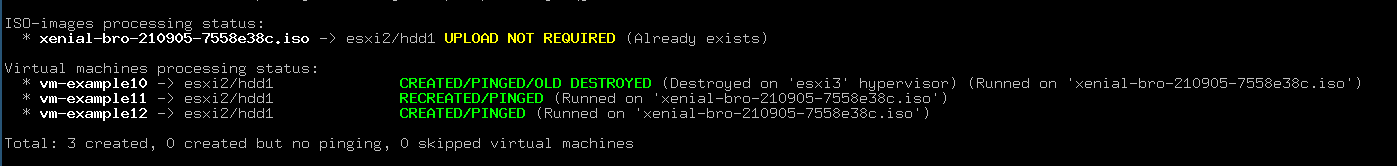
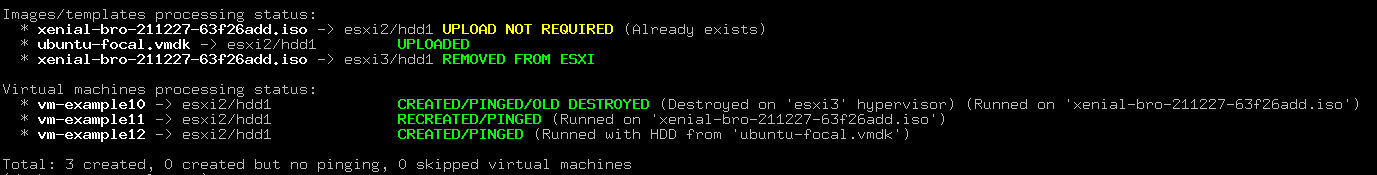
[docs/*]: Updated to last version (refs #129)

Changed region(s): [[0.0, 0.0602, 0.5621, 0.8133], [0.281, 0.4518, 0.9993, 0.8133], [0.0, 0.8133, 0.4684, 1.0]]

diff --git a/docs/CONTROL_VM_ESXI.md b/docs/CONTROL_VM_ESXI.md
@@ -18,7 +18,7 @@
 
 ### Общая информация
 
-Скрипт простого управления бездисковыми виртуальными машинами на `VmWare ESXi` гипервизоре: умеет создавать,
+Скрипт простого управления (без)дисковыми виртуальными машинами на `VmWare ESXi` гипервизоре: умеет создавать,
 уничтожать, перезагружать, обновлять параметры на лету и показывать разницу между конфигурацией и реальным положением
 дел на гипервизоре.
 
@@ -27,18 +27,18 @@
 ```
 подготовительные этапы (проверка зависимостей, парсинг конфигурационного файла и т.д.)
 -> (подготовка карты виртуальных машин/настроек автостарта/карты хранилищ на всех или выборочных гипервизорах)
-  -> (предварительное копирование необходимых ISO-образов на гипервизоры)
+  -> (предварительное копирование необходимых ISO-образов и HDD-шаблонов на гипервизоры)
     -> работа указанной команды для одной или нескольких виртуальных машин
-      -> (удаление неиспользуемых более ISO-образов на гипервизорах)
-        -> вывод статуса обработанных ISO-образов (при необходимости) и виртуальных машин
+      -> (удаление неиспользуемых более ISO-образов и HDD-шаблонов на гипервизорах)
+        -> вывод статуса обработанных ISO-образов c HDD-шаблонами (при необходимости) и виртуальных машин
 ```
 
-В скрипте реализована поддержка обработки нескольких виртуальных машин за один проход. А результат их обработки
-отображается в статусе в конце работы скрипта.
+В скрипте реализована поддержка последовательной обработки нескольких виртуальных машин за один проход.
+А результат их обработки отображается в статусе в конце работы скрипта.
 
 Взаимодействие с гипервизорами происходит по `SSH`-протоколу и посредством `API` (через программу `govc`).
 Взаимодействие посредством `API` потребовалось команде `update` для горячей замены `ISO`-образов и обновления других
-параметров виртуальных машин. В будущем планируется использовать только один вид транспорта.
+параметров виртуальных машин. В будущем планируется использовать только один вид взаимодействия.
 
 ### Использование
 
@@ -56,7 +56,7 @@
 * **reboot** - Перезагрузка или рестарт виртуальных машин;
 * **show** - Вывод разницы конфигурации виртуальных машин между гипервизором и конфигурационным файлом;
 * **update** - Обновление настроек виртуальных машин на лету;
-* **upload** - Предварительная загрузка `ISO`-образов на гипервизоры;
+* **upload** - Предварительная загрузка `ISO`-образов и `HDD`-шаблонов на гипервизоры;
 
 Для уточнения параметров любой команды, а также её опций достаточно её просто запустить.
 
@@ -99,12 +99,12 @@ $ ./control_vm_esxi.sh create [options] <vm_name> [<esxi_name>] [<vm_name>] ...
 * **-d** - Уничтожит одноименную виртуальную машину, найденную на другом гипервизоре (аналог миграции);
 * **-da** - Автоматически не включать менеджер автостарта виртуальных машин на гипервизорах;
 * **-f** - Пересоздаст (уничтожит и создаст заново) виртуальную машину, если она уже имеется на гипервизоре;
-* **-ff** - Перепроверить контрольные суммы для `ISO`-образов, которые уже имеются на гипервизоре;
+* **-ff** - Перепроверить контрольные суммы для `ISO`-образов и `HDD`-шаблонов, которые уже имеются на гипервизоре;
 * **-fs** - Принудительно выключит виртуальную машину (при использовании опций `-d` и/или `-f`), если пакет `vmware-tools` не запущен;
 * **-i** - Игнорирование гипервизоров, к которым не удалось подключиться при построении карты виртуальных машин;
 * **-n** - Не строить полную карту виртуальных машин на всех гипервизорах, ограничиться только нужными;
 * **-sn** - Игнорировать проверку сетевых настроек виртуальной машины (например, для случаев когда шлюз находится за пределами сети);
-* **-sr** - Пропустить автоматическое удаление неиспользуемых `ISO`-образов с гипервизоров (при использовании опций `-d` и/или `-f`);
+* **-sr** - Пропустить автоматическое удаление неиспользуемых `ISO`-образов и `HDD`-шаблонов с гипервизоров (при использовании опций `-d` и/или `-f`);
 * **-t** - Верить `.sha1` файлам (по умолчанию скрипт перепроверяет их для надёжности);
 
 Поскольку в скрипте реализовано построение карты виртуальных машин на всех гипервизорах, скрипт имеет возможность
@@ -125,8 +125,9 @@ $ ./control_vm_esxi.sh create [options] <vm_name> [<esxi_name>] [<vm_name>] ...
 Опция **-f** позволяет пересоздать заново виртуальную машину, например, в случаях когда требуется обновить такие параметры,
 которые не поддерживает команда **update**.
 
-Опция **-ff** позволяет принудительно перепроверить контрольные суммы, а значит и бинарное равенство локальных `ISO`-образов
-с `ISO`-образами на гипервизорах, которые скрипт собирался загружать, но обнаружил их присутствие там.
+Опция **-ff** позволяет принудительно перепроверить контрольные суммы, а значит и бинарное равенство локальных
+`ISO`-образов и `HDD`-шаблонов с `ISO`-образами и `HDD`-шаблонами на гипервизорах, которые скрипт собирался загружать,
+но обнаружил их присутствие там.
 
 С опцией **-fs** скрипт принудительно выключит виртуальную машину, даже если пакет `vmware-tools` не запущен.
 По умолчанию скрипт вытается посылать команду `shutdown` для корректного выключения виртуальной машины, однако
@@ -146,11 +147,11 @@ $ ./control_vm_esxi.sh create [options] <vm_name> [<esxi_name>] [<vm_name>] ...
 виртуальных машин. Бывают ситуации когда шлюз по умолчанию находится за пределами сети (опция `link` в `ip route`)
 и в этом случае проверка не пройдет. Для игнорирования таких ситуаций можно использовать опцию **-sn**;
 
-Опция **-sr** позволит пропустить автоматическое удаление неиспользуемых более `ISO`-образов с гипервизоров.
-Это операция запускается в самом конце и удаляет образы, которые не используются более ни одной виртуальной машиной,
-чтобы сохранить место под будущие образы.
+Опция **-sr** позволит пропустить автоматическое удаление неиспользуемых более `ISO`-образов и `HDD`-шаблонов с
+гипервизоров. Это операция запускается в самом конце и удаляет образы, которые не используются более ни одной
+виртуальной машиной, чтобы сохранить место под будущие образы.
 
-И, наконец, опция **-t** позволяет немного убыстрить работу скрипта доверяя `.sha1` файлам `ISO`-образов,
+И, наконец, опция **-t** позволяет немного убыстрить работу скрипта доверяя `.sha1` файлам,
 т.к. по умолчанию скрипт, даже при наличии этих файлов, перепроверяет контрольные суммы, для надежности.
 
 В конце своей работы команда отображает статус всех созданных виртуальных машин. Рассмотрим на примере, была
@@ -162,10 +163,12 @@ $ ./control_vm_esxi.sh -d -f vm-example10 vm-example11 vm-example12
 
 ![](screenshots/control_vm_esxi-create-status.png)
 
-Как видим из скриншота, загрузка `ISO`-образа не понадобилась, т.к. образ уже существовал на гипервизоре,
-виртуальная машина `vm-example10` были мигрирована с `esxi3`-гипервизора (указан опция `-d`), машина `vm-example11`
-была пересоздана, т.к. уже существовала на гипервизоре (опция `-f`), а `vm-example12` была просто создана.
-Также ключевое слово `PINGED`, говорит о том, что каждая из трёх созданных машин была доступна с места, где был запущен скрипт.
+Как видим из скриншота, загрузка `ISO`-образа на `esxi2`-гипервизор не понадобилась, т.к. образ уже там существовал,
+`HDD`-шаблон был загружен, т.к. осутствовал на гипервизоре, `ISO`-образ был удален на `esxi3`-гипервизор, т.к. более
+там не нужен, виртуальная машина `vm-example10` были мигрирована с `esxi3`-гипервизора (указан опция `-d`),
+машина `vm-example11` была пересоздана, т.к. уже существовала на гипервизоре(опция `-f`), а `vm-example12` была
+просто создана. Также ключевое слово `PINGED`, говорит о том, что каждая из трёх созданных машин была доступна с места,
+где был запущен скрипт.
 
 ##### Команда `destroy`
 
@@ -181,7 +184,7 @@ $ ./control_vm_esxi.sh destroy [options] <vm_name> [vm_name] [<esxi_name>/<vm_na
 
 Опции:
 * **-fs** - Принудительно выключит виртуальную машину, если пакет `vmware-tools` не запущен;
-* **-sr** - Пропустить автоматическое удаление неиспользуемых `ISO`-образов с гипервизоров;
+* **-sr** - Пропустить автоматическое удаление неиспользуемых `ISO`-образов и `HDD`-шаблонов с гипервизоров;
 
 Все поддерживаемые опции были рассмотрены в секции по [команде **create**](#команда-create).
 
@@ -238,8 +241,7 @@ $ ./control_vm_esxi.sh show vm-example10
 Поскольку в качестве параметра мы указали виртуальную машину под именем `vm-example10` и она встречается,
 как в конфигурационном файле, так и на гипервизоре, то скрипт её выделяет цветом и показывает все её настройки,
 как в конфигурационном файле, так и на гипервизоре. Причем отличающиеся значения помечаются желтым цветом.
-Настройки, которые не были найдены на гипервизоре отображаются красным цветом. Как правило, это сигнал к тому, что
-виртуальная машина была создана другим скриптом.
+Настройки, которые не были найдены на гипервизоре отображаются красным цветом.
 
 Ниже в колонках отображаются виртуальные машины, которые встречаются только в конфигурационном файле или только
 на гипервизоре. Однако, как видим, виртуальная машина с именем `vm-example11` встречается и там и там, но скрипт
@@ -263,18 +265,18 @@ $ ./control_vm_esxi.sh update <parameter_name> [options] <vm_name> [<esxi_name>]
 имя гипервизора, то настройки будут обновлены для всех виртуальных машин на этом гипервизоре.
 
 Опции:
-* **-ff** - Перепроверить контрольные суммы для `ISO`-образов, которые уже имеются на гипервизоре;
+* **-ff** - Перепроверить контрольные суммы для `ISO`-образов и `HDD`-шаблонов, которые уже имеются на гипервизоре;
 * **-i** - Игнорирование гипервизоров, с которыми не удалось подключиться при построении карты виртуальных машин;
 * **-n** - Не строить полную карту виртуальных машин на всех гипервизорах, ограничиться только нужными;
 * **-sn** - Игнорировать проверку сетевых настроек виртуальной машины (для случаев когда шлюз находится за пределами сети);
-* **-sr** - Пропустить автоматическое удаление неиспользуемых `ISO`-образов с гипервизоров;
+* **-sr** - Пропустить автоматическое удаление неиспользуемых `ISO`-образов и `HDD`-шаблонов с гипервизоров;
 * **-t** - Верить `.sha1` файлам (по умолчанию скрипт перепроверяет их)
 
 Все поддерживаемые опции были рассмотрены в секции по [команде **create**](#команда-create).
 
 На данный момент команда умеет обновлять значения следующих параметров - `local_iso_path`, `vm_dns_servers`,
-`vm_timezone`. Все параметры обновляются на "горячую", т.е. меняют свои значения сразу же, однако, учитывая характер
-бездисковых станций, обновлённые значения параметров подхватятся только после перезагрузки виртуальных машин.
+`vm_timezone`. Все параметры обновляются на "горячую", т.е. меняют свои значения сразу же, но только в конфигурации
+гипервизора. Поэтому, чтобы обновленные значения подхватились самими виртуальными машинами необходима их перезагрузка.
 
 **!!! Важно**, чтобы базовый слой, на основе которого работает виртуальная машина имел поддержку извлечения
 `ISO`-образа из виртуального CD-ROM через `vmware-tools`. Сейчас скрипт посылает команду `eject` через гипервизор
@@ -298,27 +300,28 @@ $ ./control_vm_esxi.sh update <parameter_name> [options] <vm_name> [<esxi_name>]
 
 ##### Команда `upload`
 
-Команда для предварительной загрузки `ISO`-образов на гипервизоры. Формат запуска:
+Команда для предварительной загрузки `ISO`-образов и `HDD`-шаблонов на гипервизоры. Формат запуска:
 ```bash
 $ ./control_vm_esxi.sh upload [options] <vm_name> [<esxi_name>] [<vm_name>] ...
 $ ./control_vm_esxi.sh upload [options] all
 ```
 
 В качестве параметров команда принимает имена виртуальных машин и гипервизоров. При указании в качестве параметра
-имени виртуальной машины, скрипт загрузит необходимый `ISO`-образ только для неё, в случае указания имени гипервизора -
-скрипт загрузит необходимые `ISO`-образы для всех виртуальных машин, описанных для него в конфигурационном файле.
-А при указании ключевого слова `all` - загрузит необходимые `ISO`-образы для всех виртуальных машин на всех гипервизорах.
+имени виртуальной машины, скрипт загрузит необходимый `ISO`-образ и/или `HDD`-шаблон только для неё, в случае
+указания имени гипервизора - скрипт загрузит необходимые `ISO`-образы и/или `HDD`-шаблоны для всех виртуальных машин,
+описанных для него в конфигурационном файле. А при указании ключевого слова `all` - загрузит необходимые `ISO`-образы
+и `HDD`-шаблоны для всех виртуальных машин на всех гипервизорах.
 
 Опции:
-* **-ff** - Перепроверить контрольные суммы для `ISO`-образов, которые уже имеются на гипервизоре;
+* **-ff** - Перепроверить контрольные суммы для `ISO`-образов и `HDD`-шаблонов, которые уже имеются на гипервизоре;
 * **-t** - Верить `.sha1` файлам (по умолчанию скрипт перепроверяет их)
 
 Все поддерживаемые опции были рассмотрены в секции по [команде **create**](#команда-create).
 
 В процессе работы многих команд (`create`, `update`) скрипт также предварительно загружает необходимые `ISO`-образы
-на гипервизоры. Команда **upload** позволяет запустить этот процесс в нужное время, тем самым хоть команда и
-повторяет функциональность, но создана для удобства (особенно с параметром `all`), чтобы заранее, а не в момент
-создания виртуальных машин загрузить для них все необходимые образы.
+и `HDD`-шаблоны на гипервизоры. Команда **upload** позволяет запустить этот процесс в нужное время, тем самым хоть
+команда и повторяет функциональность, но создана для удобства (особенно с параметром `all`), чтобы заранее, а не
+в момент создания виртуальных машин загрузить для них все необходимые образы.
 
 Ниже представлен пример работы с параметром `all`:
 
@@ -341,10 +344,13 @@ $ ./control_vm_esxi.sh upload all
 #esxi_ssh_port=22
 #esxi_ssh_username="root"
 #local_hook_path=""
-#local_iso_path=""                 # REQUIRED
+#local_iso_path=""
+#local_vmdk_path=""
 #vm_autostart="no"
 #vm_dns_servers="8.8.8.8 8.8.4.4"  # Separated by spaces
 #vm_esxi_datastore="datastore1"
+#vm_hdd_devtype="pvscsi"
+#vm_hdd_gb="5"
 #vm_guest_type="debian8-64"
 #vm_ipv4_address=""                # REQUIRED
 #vm_ipv4_netmask="255.255.255.0"
@@ -358,7 +364,7 @@ $ ./control_vm_esxi.sh upload all
 #vm_timezone="Etc/UTC"
 #vm_vcpus=1
 
-local_iso_path=xenial-bro-210905-7558e38c.iso
+local_iso_path=xenial-bro-211227-63f26add.iso
 vm_esxi_datastore=hdd1
 vm_ipv4_gateway=127.0.0.1
 vm_network_name="wan"
@@ -383,7 +389,10 @@ vm1-example11 at="esxi3" vm_ipv4_address="127.0.0.12"
 vm-example12 at="esxi2" \
   vm_autostart="yes" \
   vm_ipv4_address="127.0.0.13" \
-  vm_memory_mb=1024
+  vm_memory_mb=1024 \
+  local_iso_path="" \
+  local_vmdk_path="ubuntu-focal.vmdk" \
+  vm_hdd_gb="10"
 ```
 
 Как и любой классический `INI`-файл конфигурация состоит из секций (заключенных в квадратные скобки) и параметров к ним.
@@ -418,11 +427,14 @@ vm-example12 at="esxi2" \
 | **esxi_ssh_port** | SSH-порт для доступа к гипервизору | 22 |
 | **esxi_ssh_username** | SSH-пользователь для доступа к гипервизору | root |
 | **local_hook_path** | Локальный путь до хука или директории с хуками | |
-| **local_iso_path** | Локальный путь до `ISO`-образа виртуальной машины | ОБЯЗАТЕЛЬНЫЙ |
+| **local_iso_path** | Локальный путь до `ISO`-образа виртуальной машины | |
+| **local_vmdk_path** | Локальный путь до `HDD`-шаблона виртуальной машины | |
 | **vm_autostart** | Пометить виртуальную машину на автозагрузку вместе с гипервизором | нет |
 | **vm_dns_servers** | Адреса DNS-серверов | 8.8.8.8 8.8.4.4 |
 | **vm_esxi_datastore** | Имя хранилища где будет расположена виртуальная машина и `ISO`-образ к ней | datastore1 |
 | **vm_guest_type** | Тип виртуальной машины | debian8-64 |
+| **vm_hdd_devtype** | Тип адаптера `HDD`-накопителя | pvscsi |
+| **vm_hdd_gb** | Необходимый размер `HDD`-накопителя | 5 |
 | **vm_ipv4_address** | IPv4-адрес для виртуальной машины | ОБЯЗАТЕЛЬНЫЙ |
 | **vm_ipv4_netmask** | IPv4-маска для виртуальной машины | 255.255.255.0 |
 | **vm_ipv4_gateway** | IPv4-шлюз для виртуальной машины | ОБЯЗАТЕЛЬНЫЙ |
@@ -464,8 +476,8 @@ $ CACHE_DIR="-" ./control_vm_esxi.sh create vm-example10
 
 ### Типы исключений
 
-Скрипт работает с 3-мя типами сущностей - гипервизорами, `ISO`-образами и виртуальными машинами. Поэтому для более
-удобной отладки было внедрено типизирование исключений по сущностям.
+Скрипт работает с 3-мя типами сущностей - гипервизорами, образами/шаблонами и виртуальными машинами.
+Поэтому для более удобной отладки было внедрено типизирование исключений по сущностям.
 
 Рассмотрим пример, скрипт был запущен следующей командой:
 
@@ -478,14 +490,14 @@ $ ./control_vm_esxi.sh create vm-example10
 Видим, что в процессе построения карты виртуальных машин случилась ошибка, а именно ошибка парсинга: скрипт не смог
 распознать ответ гипервизора (в данном примере закешированный ответ) и выдал исключение `SKIPPING ESXI`, т.к.
 это исключение относится ко всему гипервизору и дальнейшее взаимодействие с ним невозможно, о чём мы и видим в
-статусе обработанных `ISO`-образов и виртуальных машин. Там также указан тип `SKIPPED ESXI`, т.е. пропуск произошёл
-из-за проблем на гипервизоре, а не вследствии ошибок при работе с самими `ISO`-образами или виртуальными машинами.
+статусе обработанных образов/шаблонов и виртуальных машин. Там также указан тип `SKIPPED ESXI`, т.е. пропуск произошёл
+из-за проблем на гипервизоре, а не вследствии ошибок при работе с самими образами/шаблонами или виртуальными машинами.
 
 ![](screenshots/control_vm_esxi-parse-error3.png)
 
-Во втором примере мы видим ошибку с `ISO`-образом, а именно несоответствие подсчитанной контрольной суммы и в `.sha1` файле,
-из-за чего получили исключение типа `SKIPPED ISO`, а далее виртуальная машина не могла быть создана, т.к. `ISO`-образ
-не удалось залить/проверить, из-за чего возникло исключение типа `SKIPPED VM`.
+Во втором примере мы видим ошибку с `ISO`-образом, а именно несоответствие подсчитанной контрольной суммы и в `.sha1`
+файле, из-за чего получили исключение типа `SKIPPED IMAGE`, а далее виртуальная машина не могла быть создана,
+т.к. `ISO`-образ не удалось залить/проверить, из-за чего возникло исключение типа `SKIPPED VM`.
 
 ### Хуки
 

diff --git a/README.md b/README.md
@@ -1,6 +1,6 @@
-# Скрипты для работы с diskless-нодами на ESXi
+# Скрипты для работы с disk(less)-нодами на ESXi
 
-Коллекция `BASH`-скриптов для работы с `diskless`-нодами под управлением `VmWare ESXi` гипервизоров.
+Коллекция `BASH`-скриптов для работы с `disk(less)`-нодами под управлением `VmWare ESXi` гипервизоров.
 
 ![](docs/screenshots/control_vm_esxi-main.png)
 
@@ -17,11 +17,16 @@
 * Описание конфигурации через `INI`-файлы;
 * Корректная обработка ошибок и исключительных ситуаций на каждом этапе;
 * Цветное оформления для лучшей читабельности вывода скриптов;
-* Загрузка виртуальных машин через собранные `ISO`-образы (шаблоны) при полном размещении ОС в оперативной памяти;
-* Сборка `ISO`-образов (шаблонов) на основе базового слоя выбранной операционной системы;
+* Поддержка работы с 4мя типами виртуальных машин: бездисковые (на базе подготовленного `ISO`-образа с полным
+  размещением ОС в оперативной памяти), бездисковые с диском для хранения данных, дисковые (на базе подготовленного
+  `HDD`-шаблона), сетевые (с загрузкой только по сети);
+* Поддержка сборки `ISO`-образов на основе базового слоя выбранной операционной системы и его модификации
+  под конкретное применение через обычные скрипты в `GIT`-репозитарии;
 * Преподготовленный базовый слой `ubuntu-xenial-amd64-minbase`;
-* Модификация базового слоя под конкретное применение через обычные скрипты в `GIT`-репозитарии;
-* Предварительная (или по команде) загрузка `ISO`-образов (шаблонов) на гипервизоры с выводом отдельного статуса по ним;
+* Предварительная (или по команде) загрузка `ISO`-образов и `HDD`-шаблонов на гипервизоры
+  с выводом отдельного статуса по ним;
+* Проверка контрольных сумм артефактов базовых слоёв при создании `ISO`-образов,
+  а также контрольных сумм `ISO`-образов и `HDD`-шаблонов при создании виртуальных машин;
 * Поддержка обработки нескольких виртуальных машин за один запуск с выводом статуса по каждой из них;
 * Создание виртуальных машин с возможностью удаления одноименной на другом гипервизоре (аналог миграции)
   и/или пересоздания уже существующих виртуальных машин;
@@ -31,17 +36,15 @@
 * Отображение различий настроек в конфигурационном файле и на гипервизорах;
 * Поддержка переключения `ISO`-образа виртуальной машины на лету (для будущей перезагрузки);
 * Поддержка отложенного обновления некоторых параметров виртуальных машин (временная зона, адреса DNS-серверов);
-* Проверка контрольных сумм артефактов базовых слоёв при создании образов, а также контрольных сумм ISO-образов
-  при создании виртуальных машин;
 
 ### Содержимое
 
 ```
 ├ base_layers/ubuntu-xenial-amd64-minbase - базовый слой с Ubuntu Xenial для amd64-платформы в minbase варианте
 ├ hooks/                                  - папка для расположения вспомогательных скриптов (хуков)
-├ isolinux/                               - файлы из isolinux-проекта для возможности сборки загрузочных ISO-образов (шаблонов)
+├ isolinux/                               - файлы из isolinux-проекта для возможности сборки загрузочных ISO-образов
 ├ Dockerfile                              - файл для docker для запуска скриптов в контейнере
-├ build_iso_images.sh                     - скрипт для сборки загрузочных ISO-образов (шаблонов) с нуля
+├ build_iso_images.sh                     - скрипт для сборки загрузочных ISO-образов с нуля
 ├ build_iso_images.ini.example            - пример конфигурационного файла
 ├ control_vm_esxi.sh                      - скрипт для управления diskless-виртуальным машинами на Vmware ESXi гипервизорах
 ├ control_vm_esxi.ini.example             - пример конфигурационного файла

diff --git a/docs/EXAMPLES.md b/docs/EXAMPLES.md
@@ -69,7 +69,7 @@ $ sudo ./build_iso_images.sh build -f xenial-bro
 ```ini
 [defaults]
 # Задаём значения по умолчанию для некоторых параметров, значения остальных определены в самом скрипте
-local_iso_path=xenial-bro-210905-7558e38c.iso
+local_iso_path=xenial-bro-211227-63f26add.iso
 vm_esxi_datastore=hdd1
 vm_ipv4_gateway=127.0.0.1
 vm_network_name="wan"
@@ -99,14 +99,16 @@ vm1-example11 at="esxi3" vm_ipv4_address="127.0.0.12"
 vm-example12 at="esxi2" \
   vm_autostart="yes" \
   vm_ipv4_address="127.0.0.13" \
-  vm_memory_mb=1024
+  vm_memory_mb=1024 \
+  local_iso_path="" \
+  local_vmdk_path="ubuntu-focal.vmdk" \
+  vm_hdd_gb="10"
 ```
 
 ##### Примеры использования
 
 Создание всех виртуальных машин на `esxi1` и `esxi2` гипервизорах с информированием о необходимости
-включения
-менеджера автостарта виртуальных машин где это необходимо (опция `-da`):
+включения менеджера автостарта виртуальных машин где это необходимо (опция `-da`):
 ```bash
 $ ./control_vm_esxi.sh create -da esxi1 esxi2
 ```
@@ -129,7 +131,7 @@ $ ./control_vm_esxi.sh destroy -fs vm-example10
 ```
 
 Уничтожение виртуальной машины `test1` на `esxi2` гипервизоре, не описанной в конфигурационном файле и пропуском
-удаления неиспользуемых `ISO`-образов на гипервизоре (опция `-sr`):
+удаления неиспользуемых `ISO`-образов и `HDD`-шаблонов на гипервизоре (опция `-sr`):
 ```bash
 $ ./control_vm_esxi.sh destroy -sr esxi2/test1
 ```
@@ -174,13 +176,13 @@ $ CACHE_VALID="-" ./control_vm_esxi.sh show -n vm-example10
 ./control_vm_esxi.sh update vm_dns_servers vm-example10
 ```
 
-Предварительная загрузка необходимых `ISO`-образов на все гипервизоры:
+Предварительная загрузка необходимых `ISO`-образов и `HDD`-шаблонов на все гипервизоры:
 ```bash
 ./control_vm_esxi.sh upload all
 ```
 
-Предварительная загрузка необходимых `ISO`-образов для `vm-example10` и `vm-example12` виртуальных машин без проверки
-корректности контрольных сумм в `.sha1`-файлах (т.е. доверяя содержимому `.sha1` файлов) (опция `-t`):
+Предварительная загрузка необходимых `ISO`-образов и `HDD`-шаблонов для `vm-example10` и `vm-example12` виртуальных
+машин без проверки корректности контрольных сумм в `.sha1`-файлах (т.е. доверяя содержимому `.sha1` файлов) (опция `-t`):
 ```bash
 ./control_vm_esxi.sh upload -t vm-example10 vm-example12
 ```

diff --git a/docs/BUILD_ISO_IMAGES.md b/docs/BUILD_ISO_IMAGES.md
@@ -13,7 +13,7 @@
 
 ### Общая информация
 
-Скрипт для создания `ISO`-образов (шаблонов) на основе которых потом и будут создаваться бездисковые виртуальные машины.
+Скрипт для создания `ISO`-образов на основе которых потом и будут создаваться бездисковые виртуальные машины.
 Каждый `ISO`-образ формируется по следующей схеме (в круглых скобках указаны необязательные этапы):
 
 ```
